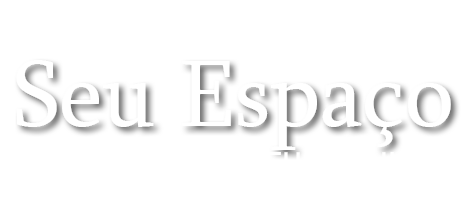
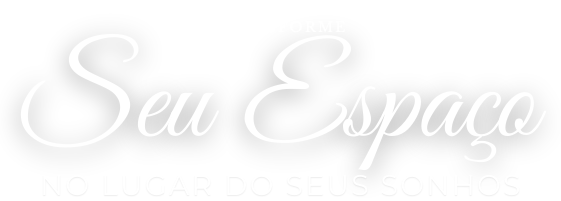
adicionado novas estilizaçoes

Changed region(s): [[0.0298, 0.2687, 0.983, 0.7761]]

diff --git a/Isaac Gandes/sources/style.css b/Isaac Gandes/sources/style.css
@@ -21,13 +21,13 @@ body{
 }
 
 #section1{
-    height: 93%;
+    height: 92%;
 
 }
 
 header{
-    height: 7%;
-    background-color: #c1c1c1a9;
+    height: 8%;
+    box-shadow: 5px 5px 10px #ffffff46;
 }
 
 #blocoHeader{
@@ -69,6 +69,56 @@ header{
 main{
     width: 100%;
     height: 80%;
+}
+
+#position{
+    width: 100%;
+    height: 100%;
+    position: relative;
+}
+
+#spaceImage{
+    width: 80%;
+    border-radius: 50px;
+    padding: 50px;
+    margin: auto;
+    position: absolute;
+    top: 20%;
+    left: 10%;
+}
+
+@media screen and (min-width:768px) {
+    #spaceImage{
+        display: flex;
+        justify-content: space-between;
+        align-items: center;
+    }
+}
+
+#img1{
+    transition-delay: 1s;
+    animation: img1 5s forwards;
+}
+@keyframes img1{
+    from{
+        opacity: 0;
+    }
+    to{
+        opacity: 1;
+    }
+}
+
+#img2{
+    animation-delay: 100s;
+    animation: img2 5s forwards;
+}
+@keyframes img2{
+    from{
+        opacity: 0;
+    }
+    to{
+        opacity: 1;
+    }
 }
 
 #spaceblock{

diff --git a/Isaac Gandes/index.html b/Isaac Gandes/index.html
@@ -20,10 +20,16 @@
     <section id="section1">
         
         <main>
-
-            <img src="sources/img/logoGrande.png" alt="">
-            <img src="sources/img/transforme seu espaço.png" alt="">
-
+            <div id="position">
+                <div id="spaceImage">
+                    <div id="image1">
+                        <img id="img1" src="sources/img/logoGrande.png" alt="">
+                    </div>
+                    <div id="image2">
+                        <img id="img2" src="sources/img/Transforme seu espaço.png" alt="">
+                    </div>
+                </div>
+            </div>
         </main>
         <footer>
     
